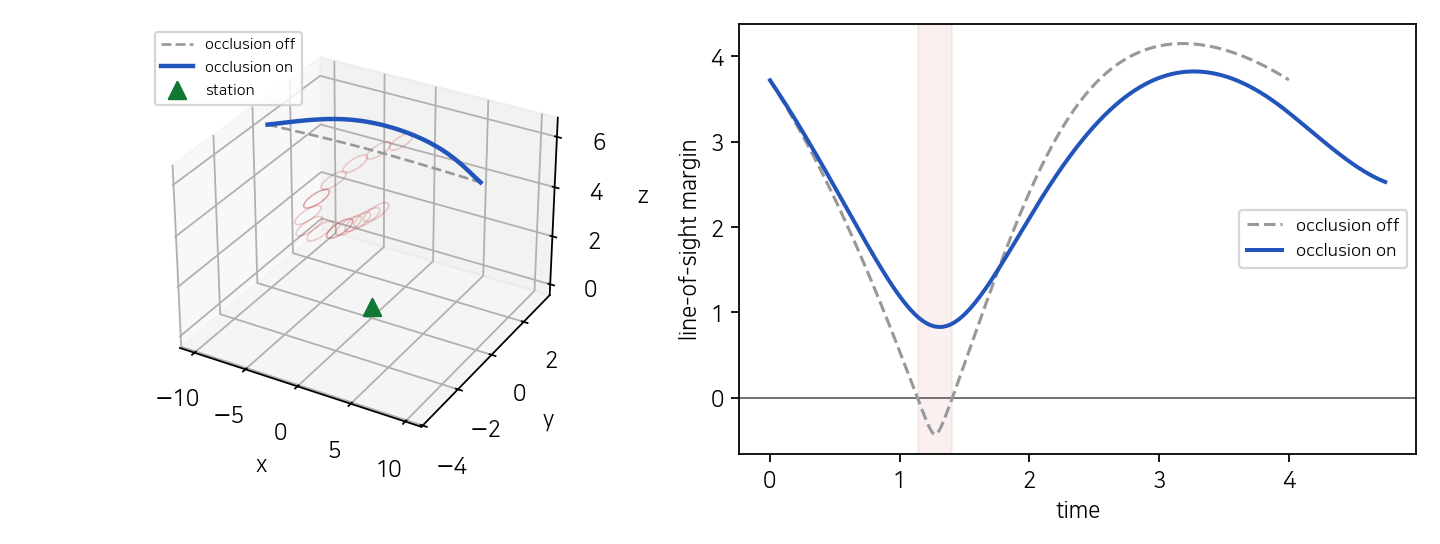
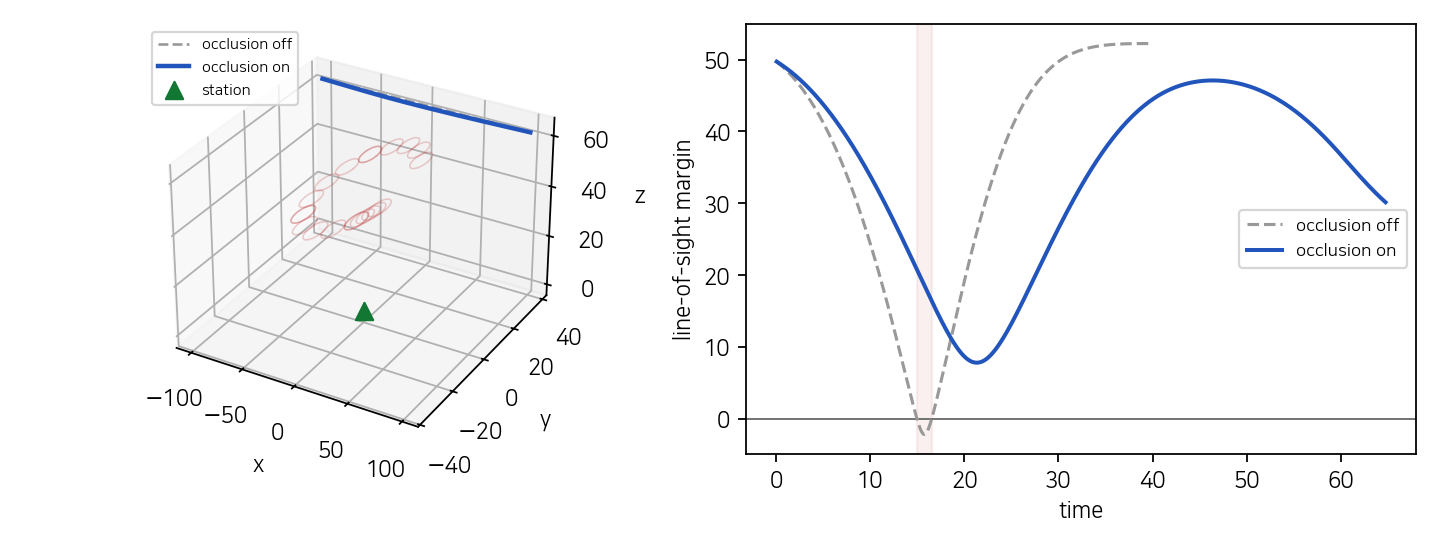
solver: loiter in metres and seconds, corridor tangent to the shadow ring
The scenario now reads as a scene instead of a set of coordinates: a ground
control station on the soil, an aircraft loitering 50 m above it on a 30 m
circle at 2.4 m/s, and a small unmanned aircraft crossing 200 m of corridor at
62.5 m and 5 m/s while the loiterer's shadow sweeps that corridor.

Two changes, and the second is the one that matters.

1. Rescaled by 10 in space AND in time together -- a similarity transform of the
   lifted problem, verified as one: the priced baseline came back at min
   line-of-sight -4.2842 against -0.4284, losing the link over [11.396, 14.051]
   against [1.1396, 1.4051], arriving at 40.003 against 4.0003. Three exact
   scaled images.

2. The corridor now lies ON the shadow ring (y = orbit_r * z / body_z = 37.5 m)
   instead of crossing it, and has a width of 5 m either side. Before this the
   demo did not show what the paper claims: the run sidestepped 15.8 m, and
   grafting the baseline's schedule onto that same path STILL kept the link at
   +2.393, so the retiming was decoration. On the ring the shadow arrives moving
   along the corridor rather than across it, and 5 m of lateral freedom cannot
   clear a 7.5 m spot centred on the path.

   Measured at phase 51 deg: the constrained run's own path flown on the
   BASELINE's schedule loses the link at -1.699. The path is untouched -- 0.00 m
   of lateral deviation, 200.01 m against 200.00 straight -- so the timing is
   what saves it, and that is the paper's claim.
[…]

diff --git a/spacetime_bezier/static/frontend.html b/spacetime_bezier/static/frontend.html
@@ -1453,6 +1453,10 @@ function applyScenario() {
   p.selectedIndex = 0;
   applyPreset();
   $("ewHint").textContent = `(registered: ${sc.registered_elastic_weight})`;
+  // A trust radius is a length, so the scene owns it: `loiter` is 200 m across
+  // and will not certify at the 0.5 default. Selecting a scenario therefore
+  // overwrites the box, the same way it overwrites the config preset.
+  $("trust_radius").value = sc.trust_radius ?? CAT.solve_defaults.trust_radius;
   if (!sc.drawable) {
     $("banner").textContent =
       `Scenario ${sc.name} has ${sc.dim} coordinates; this page draws 3 or 4 and refuses ` +

diff --git a/spacetime_bezier/scenarios.py b/spacetime_bezier/scenarios.py
@@ -380,8 +380,12 @@ SCENARIO_ELASTIC_WEIGHT = {
     # certificate 0.61 at 100, 0.29 at 800, 0.50 at 3000, and 0.0 at 1e5.
     "station_fence": 100000.0,
     # Measured 2026-08-26 at N8_seg8 with the corridor-layer geometry: the
-    # ladder certified at this rung and no lower one.
-    "loiter": 100000.0,
+    # ladder certified at 1e5 and no lower rung. The 2026-08-28 rescale to
+    # metres and seconds moved it up one decade, because the exact-penalty
+    # threshold scales with the problem: at 1e5 the same run now returns an
+    # occlusion certificate of 4.2e-05 -- a trajectory standing on slack, which
+    # the figure gate refuses -- and at 1e6 it returns 0.0.
+    "loiter": 1000000.0,
 }
 
 
@@ -436,59 +440,109 @@ def scenario_curve() -> dict:
 
 @_canonical
 def scenario_loiter() -> dict:
-    """A body ORBITING the ground station — the tube keeps coming back.
+    """A body ORBITING the ground station, and a corridor its shadow sweeps ALONG.
 
-    The geometry is built so that TIMING is the only escape. Each piece closes
-    one of the ways the solver was measured to squirm out (2026-08-26):
+    **The numbers are metres and seconds.** A ground control station on the soil,
+    another aircraft loitering 50 m above it on a 30 m circle at 2.4 m/s, and a
+    small unmanned aircraft crossing 200 m of corridor at 62.5 m altitude and
+    5 m/s while the loiterer's shadow sweeps that corridor.
+
+    **Timing is the only escape, and that is measured, not asserted.** Take the
+    constrained run's spatial path, graft the BASELINE's schedule onto it, and
+    re-measure line of sight: it goes to -1.699 and the link is lost. The same
+    path flown on the earlier schedule fails, so the retiming is what saves the
+    run. The spatial path is not doing the work and cannot: the constrained run
+    deviates 0.00 m laterally over 200 m and its path is 200.01 m long, +0.00
+    percent against the straight line.
+
+    Two design choices buy that, and the geometry earns both:
+
+    * **The corridor is TANGENT to the shadow ring, not a chord of it.** At
+      altitude z the shadow of the body falls on a ring of radius
+      ``orbit_r * z / body_z`` -- 37.5 m at z = 62.5 -- and its spot there has
+      radius ``body_r * z / body_z`` = 7.5 m. Put the corridor ON that ring
+      (y = 37.5) and the spot arrives moving PARALLEL to the corridor instead of
+      across it, so it sits on the path instead of crossing it. An earlier
+      version ran the corridor through the ring's centre line; the spot crossed
+      transversally, a sidestep cleared it, and the run's own retiming was
+      decoration -- grafting the baseline schedule onto that path still kept the
+      link at +2.393.
+    * **The corridor has a WIDTH, 5 m either side.** The spot's radius is 7.5 m
+      and at tangency it is centred on the corridor axis, so no lateral offset
+      the corridor allows can clear it. Without the width the solver sidesteps
+      15.8 m and never has to wait. Narrower does not work: at +-3, +-2 and +-1
+      the run stops certifying (occlusion certificate 5 to 13, standing on
+      slack, at both 1e6 and 1e7).
+
+    **The phase is scanned, and what it sets is WHEN the shadow reaches the
+    corridor relative to the baseline's transit.** Tangency alone does not pick
+    it: phase 0 puts the body at the tangency point at a quarter lap, which is
+    also when the baseline crosses that point, and it gives the deepest baseline
+    failure (-6.000) -- but the constrained run does not certify there
+    (occlusion certificate 3.13, standing on slack). Scanned 2026-08-28 at the
+    registered weight, 9 of the phases tried satisfy all three conditions at
+    once: the run certifies, the baseline loses the link, and the graft above
+    fails. 51 deg is the one where the spatial path is untouched. Measured
+    there: the baseline loses the link over [14.96, 16.52] s at min
+    line-of-sight -2.169, and the constrained run keeps it at +7.814 by
+    arriving 24.8 s later, clearing the body by 25.5 m, in 22 iterations with
+    both certificates 0.0. The deeper-baseline alternatives cost path purity --
+    12 deg gives -5.781 but 3.19 m of lateral deviation.
+
+    The remaining pieces close the ways the solver was measured to squirm out
+    (2026-08-26, at a tenth of these lengths):
 
     * **Station at the origin, ON the soil.** The floor of the altitude band is
-      what makes the soil real — without it the solver dives, because z < 0 is
+      what makes the soil real -- without it the solver dives, because z < 0 is
       shadow-free (a sight line to a ground station never passes below the
-      ground; measured: it went to z = -1.86).
-    * **Orbit higher than it is wide** — radius 3 at altitude 5. The shadow ring
-      at altitude z then sits at horizontal radius 0.6·z. With the orbit as wide
-      as it is high (the first attempt) the ring sits at the vehicle's own
-      altitude at EVERY altitude — a 45-degree cone the transit never touched.
-    * **Corridor overhead, endpoints inside the band.** The transit runs along
-      y = 0 at z = 3, under a ceiling of 6. At every altitude in the band the
-      ring radius (at most 3.6) is inside the transit span (10), so the path
-      crosses the swept shadow shell twice at EVERY reachable altitude. No
-      altitude avoids the shadow; only timing does. The occluded fraction of a
-      lap per crossing is about r_m / (pi * orbit_r) = 6 percent.
-    * **One full lap over the horizon** (T = 8), so the shadow sweeps each
-      crossing point once and "wait for it to pass" is meaningful. A cubic
-      cannot close a circle, so the lap is a CHAIN of four quarter-arc pieces on
-      contiguous time windows — the station_fence pattern with curved pieces;
+      ground; measured at the authoring scale: it went to z = -1.86).
+    * **The band sits above the body's reach** (floor 60 > body top 56), so the
+      keep-out rows are present and never binding -- the constrained run clears
+      by 25.5 m. What forces the timing is the line-of-sight rows and nothing
+      else.
+    * **One full lap over the horizon** (T = 80), so the shadow visits the
+      corridor once and "wait for it to pass" is meaningful. A cubic cannot
+      close a circle, so the lap is a CHAIN of four quarter-arc pieces on
+      contiguous time windows -- the station_fence pattern with curved pieces;
       the quarter-circle constant k = 0.5522847498 overshoots the radius by
-      0.03 percent, far below the body radius 0.6.
+      0.03 percent, far below the body radius 6.
 
-    Why a returning body at all: in the lifted space the tube comes near the
-    same spatial neighbourhood twice per lap, so a clipping ball centred between
-    the passes cuts it in TWO PLACES — two walls whose time components are
-    equal and opposite, and the free wedge between them is a time slot. The
-    planar ancestor measured exactly that through the production builder
-    (normals with time components +0.9141 / -0.9171, certificate 0.0).
+    Two solver knobs are lengths, so they do NOT come along for free when the
+    scene is scaled:
+
+    * ``trust_radius`` 5.0, and it is a scenario key for a measured reason. The
+      clip radius is built from it (``reach = seg_radius + trust * sqrt(dim)``
+      in ``clip_band``), so the stock 0.5 against a 200 m scene is degenerate:
+      the constrained run then pushes arrival to the horizon end and still loses
+      the link. Callers must forward it the way they forward ``coord_bounds``.
+    * The elastic weight, 1e6 in ``SCENARIO_ELASTIC_WEIGHT``. The exact-penalty
+      threshold scales with the problem: at 1e5 this scene returns an occlusion
+      certificate of 4.2e-05 -- a run standing on slack, which the figure gate
+      refuses -- and at 1e6 it returns 0.0.
+
+    ``min_dt`` is the exception that needs no scaling: at an 80 s horizon the
+    floor never binds.
 
     The arrival time is meant to be FREE. That is a solve flag, not a scenario
     key: tick ``free_arrival_time`` with a ``time_weight > 0`` and a ``v_max``,
     or the solver refuses by design (a freed arrival that nothing prices is an
-    artifact generator — see ``optimize.py``).
+    artifact generator -- see ``optimize.py``). The paper figure runs it with
+    ``time_weight=10.0`` and ``v_max=5.0``.
     """
-    orbit_r = 3.0
-    body_z = 5.0
-    body_r = 0.6
+    orbit_r = 30.0   # m, radius of the loiter circle
+    body_z = 50.0    # m, altitude of the loiter circle
+    body_r = 6.0     # m, keep-out radius of the loitering body
+    corridor_z = 62.5    # m, altitude of the transit
+    corridor_half = 5.0  # m, lateral half-width of the corridor
+    # The shadow ring at the corridor's altitude. Putting the corridor here is
+    # the whole design: the spot arrives moving along the corridor rather than
+    # across it. Derived, not tuned -- change either altitude and it follows.
+    corridor_y = orbit_r * corridor_z / body_z   # 37.5 m
     k = 0.5522847498  # cubic quarter-circle constant
-    # Starting phase of the lap. NOT free, and scanned against the right
-    # object: the figure's own PRICED baseline (occlusion rows off, free
-    # arrival with time_weight=1 and v_max=5), not the straight seed -- an
-    # unpriced baseline's timing is an interior-point tie-break on a flat face
-    # (the regularizer scores every timing equally), so a seed-based scan
-    # answers a question no run in the figure asks. Measured 2026-08-26 at the
-    # 6.2 corridor: 8 of 60 phases make the priced baseline lose the link.
-    # 126 is the deepest (-0.507) but no ladder rung certifies the CONSTRAINED
-    # run there; at 120 the baseline still loses by -0.428 and the constrained
-    # run certifies at the registered weight -- both figure gates pass.
-    phase = np.deg2rad(120.0)
+    # Scanned, not derived -- see the docstring. This is the phase where the run
+    # certifies AND the baseline fails AND the constrained path flown on the
+    # baseline's schedule still loses the link, with the spatial path untouched.
+    phase = np.deg2rad(51.0)
     lap = [
         # (x, y) control points of each quarter, counterclockwise from (orbit_r, 0).
         [(orbit_r, 0.0), (orbit_r, orbit_r * k), (orbit_r * k, orbit_r), (0.0, orbit_r)],
@@ -497,7 +551,7 @@ def scenario_loiter() -> dict:
         [(0.0, -orbit_r), (orbit_r * k, -orbit_r), (orbit_r, -orbit_r * k), (orbit_r, 0.0)],
     ]
     cs, sn = float(np.cos(phase)), float(np.sin(phase))
-    quarter = 2.0  # T / 4
+    quarter = 20.0  # s, T / 4
     obstacles = [
         {
             "control_points": [
@@ -515,28 +569,27 @@ def scenario_loiter() -> dict:
         "title": "Body Orbiting the Ground Station",
         "init_curve": {"mode": "straight"},
         "obstacles": obstacles,
-        "start": [-10.0, 0.0, 6.2, 0.0],
-        "end":   [ 10.0, 0.0, 6.2, 8.0],
+        "start": [-100.0, corridor_y, corridor_z, 0.0],
+        "end":   [ 100.0, corridor_y, corridor_z, 80.0],
         "stations": [[0.0, 0.0, 0.0]],
-        # The corridor LAYER, enforced as HARD box rows outside the elastic
-        # slack range -- the penalty cannot buy through them. Two measured
-        # mistakes fixed its altitude. Below the orbit the transit is always
-        # visible -- the shadow lies on the far side of the body from the
-        # station (at z=3 the seed cleared by exactly +1.400 = the 2.0 vertical
-        # gap minus the 0.6 radius, at every phase). AT the orbit altitude
-        # (z=5.5) the body itself blocks the crossing whenever the shadow does,
-        # so the keep-out rows alone force the same retiming and the occlusion
-        # rows are decoration -- the figure tool's gate 2 refused to draw it.
-        # The layer therefore sits ABOVE the body's reach (floor 6.0 > body top
-        # 5.6, keep-out present but never binding) and INSIDE the shadow's
-        # (ring radius 0.6z stays within the transit span up to the ceiling):
-        # in this layer the line-of-sight rows, and nothing else, are what
-        # forces the timing. Endpoints are pinned and exempt, and a band that
+        # The corridor as a TUBE, enforced as HARD box rows outside the elastic
+        # slack range -- the penalty cannot buy through them. The lateral pair
+        # is what makes timing the only escape (docstring); the altitude pair
+        # keeps the run above the body's reach and out of the shadow-free space
+        # below the soil. Endpoints are pinned and exempt, and a band that
         # excludes an endpoint is refused loudly.
-        "coord_bounds": [[-12.0, 12.0], [-12.0, 12.0], [6.0, 6.5]],
-        "T": 8.0,
+        "coord_bounds": [
+            [-120.0, 120.0],
+            [corridor_y - corridor_half, corridor_y + corridor_half],
+            [60.0, 65.0],
+        ],
+        # A LENGTH, and this scene is 200 m across. See the docstring: the
+        # stock 0.5 leaves the constrained run losing the link with its arrival
+        # pinned against the horizon. Callers that solve a scenario must
+        # forward this the way they forward `coord_bounds`.
+        "trust_radius": 5.0,
+        "T": 80.0,
     }
-
 
 SCENARIO_MAP = {
     "original": (scenario_original, [(4, 4), (4, 8), (6, 8), (8, 4), (8, 8)]),

diff --git a/spacetime_bezier/optimize.py b/spacetime_bezier/optimize.py
@@ -651,7 +651,7 @@ def optimize_scenario(
     max_iter: int = 200,
     tol: float = 1e-6,
     scp_prox_weight: float = 0.3,
-    scp_trust_radius: float = DEFAULT_TRUST_RADIUS,
+    scp_trust_radius: float | None = None,
     elastic_weight: float | None = None,
     min_dt: float = 0.1,
     v_max: float | None = None,
@@ -680,6 +680,15 @@ def optimize_scenario(
     # Absent key means the uniform default box, so every scenario without one
     # solves exactly the problem it always did.
     coord_bounds = scenario.get("coord_bounds")
+    # A trust radius is a LENGTH, so it belongs to the scene as much as the box
+    # does: 0.5 against a 200 m scene is degenerate (see `scenario_loiter`). An
+    # explicit argument still wins; absent both, the module default, so every
+    # scenario without the key solves exactly the problem it always did.
+    trust_radius = (
+        float(scp_trust_radius)
+        if scp_trust_radius is not None
+        else float(scenario.get("trust_radius", DEFAULT_TRUST_RADIUS))
+    )
 
     results = {}
     for N, n_seg in configs:
@@ -707,7 +716,7 @@ def optimize_scenario(
                 max_iter=max_iter,
                 tol=tol,
                 scp_prox_weight=scp_prox_weight,
-                scp_trust_radius=scp_trust_radius,
+                scp_trust_radius=trust_radius,
                 elastic_weight=candidate_weight,
                 min_dt=min_dt,
                 v_max=v_max,
@@ -788,7 +797,10 @@ def optimize_scenario(
             "accept_count": int(opt_info.get("accept_count", 0)),
             "reject_count": int(opt_info.get("reject_count", 0)),
             "returned_best_iterate": bool(opt_info.get("returned_best_iterate", 0.0)),
-            "trust_radius": float(scp_trust_radius),
+            # The RESOLVED radius, not the argument: the scene may have
+            # supplied it, and this row is what the verdicts and every
+            # recorded measurement downstream read.
+            "trust_radius": float(trust_radius),
             "elastic_weight": float(used_weight),
             "speed_cap_violation": float(opt_info.get("speed_cap_violation", 0.0)),
             "arrival_time": float(opt_info.get("arrival_time", float("nan"))),
@@ -848,7 +860,7 @@ def optimize_scenarios(
     max_iter: int = 200,
     tol: float = 1e-6,
     scp_prox_weight: float = 0.3,
-    scp_trust_radius: float = DEFAULT_TRUST_RADIUS,
+    scp_trust_radius: float | None = None,
     elastic_weight: float | None = None,
     min_dt: float = 0.1,
     verbose: bool = True,

diff --git a/tools/make_paper_figure.py b/tools/make_paper_figure.py
@@ -57,7 +57,11 @@ def solve_pair(scenario: str, N: int, n_seg: int,
     common = dict(
         N=N, dim=len(sc["start"]), p_start=sc["start"], p_end=sc["end"],
         obstacles=sc["obstacles"], n_seg=n_seg, max_iter=200, tol=1e-6,
-        scp_trust_radius=0.5, min_dt=0.1, elastic_weight=weight,
+        # The trust radius is a length, so it comes from the scene when the
+        # scene declares one -- `loiter` is 200 m across and the 0.5 default
+        # leaves its constrained run uncertifiable.
+        scp_trust_radius=float(sc.get("trust_radius", 0.5)), min_dt=0.1,
+        elastic_weight=weight,
         # The scenario's own workspace band; optimize_spacetime takes explicit
         # arguments, so the key must be forwarded by hand here.
         coord_bounds=sc.get("coord_bounds"),

diff --git a/spacetime_bezier/frontend.py b/spacetime_bezier/frontend.py
@@ -493,6 +493,7 @@ def scenario_catalog() -> dict:
             "T": float(scenario["T"]),
             "stations": scenario.get("stations"),
             "coord_bounds": scenario.get("coord_bounds"),
+            "trust_radius": float(scenario.get("trust_radius", DEFAULT_TRUST_RADIUS)),
             "configs": [[int(N), int(n_seg)] for N, n_seg in configs],
             "registered_elastic_weight": scenario_elastic_weight(name),
             "views": axis_views(dim),
